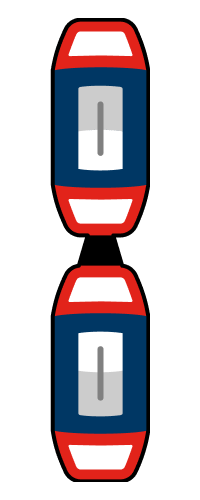
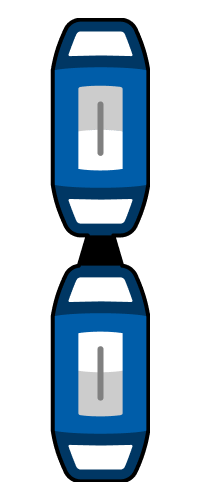
feat(vehicles): add new ML train vehicle asset and update overlay references
- Introduced a new vehicle asset for the Metro Lisboa train in the vehicles asset list.
- Updated the MapViewOverlayVehicles component to include the new ML train asset in the vehicle overlay logic.

Changed region(s): [[0.27, 0.03, 0.75, 0.48], [0.27, 0.51, 0.75, 0.96]]

diff --git a/modules/hub/apps/frontend-navegante-app/src/components/map/overlays/MapViewOverlayVehicles/index.tsx b/modules/hub/apps/frontend-navegante-app/src/components/map/overlays/MapViewOverlayVehicles/index.tsx
@@ -185,6 +185,7 @@ export function MapViewOverlayVehicles({ presentBeforeId, vehiclesData = baseGeo
 						'match',
 						['to-string', ['get', 'agency_id']],
 						'1', 'map-vehicle-ccfl-bus',
+						'2', 'map-vehicle-ml-train',
 						'3', 'map-vehicle-cp-train',
 						'4', 'map-vehicle-ttsl-boat',
 						'8', 'map-vehicle-tcb-bus',

diff --git a/packages/ui/src/components/map/assets/vehicles.ts b/packages/ui/src/components/map/assets/vehicles.ts
@@ -9,6 +9,7 @@ export const MAP_ASSETS_VEHICLES = [
 	{ name: 'map-vehicle-cmet-bus', sdf: false, url: '/assets/map/vehicles/map-vehicle-cmet-bus.png' },
 	{ name: 'map-vehicle-cp-train', sdf: false, url: '/assets/map/vehicles/map-vehicle-cp-train.png' },
 	{ name: 'map-vehicle-fertagus-train', sdf: false, url: '/assets/map/vehicles/map-vehicle-fertagus-train.png' },
+	{ name: 'map-vehicle-ml-train', sdf: false, url: '/assets/map/vehicles/map-vehicle-ml-train.png' },
 	{ name: 'map-vehicle-mobi-bus', sdf: false, url: '/assets/map/vehicles/map-vehicle-mobi-bus.png' },
 	{ name: 'map-vehicle-mts-tram', sdf: false, url: '/assets/map/vehicles/map-vehicle-mts-tram.png' },
 	{ name: 'map-vehicle-tcb-bus', sdf: false, url: '/assets/map/vehicles/map-vehicle-tcb-bus.png' },